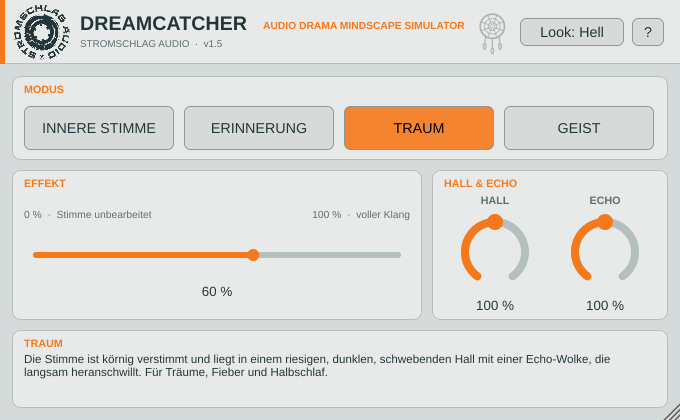
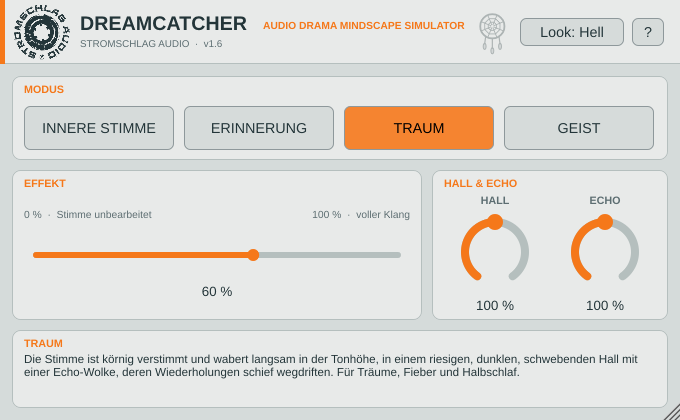
v1.6: Erinnerung und Traum zurückgenommen, Geist trocken, Flutter und GalacticVibe
- Erinnerung und Traum: Echos, Hall, Echo-Wolke, Stottern und Verstimmung etwa halbiert,
  Pegel neu abgeglichen (Stimme bleibt verständlich, 100 % ist jetzt dezenter)
- Geist: kein Vorwärts-Hall mehr hinter der Stimme, die Stimme bleibt trocken
- Erinnerung: leichtes Bandleiern (Airwindows Flutter, ca. ±9 Cent)
- Traum: langsam wabernde Tonhöhe (Airwindows GalacticVibe, ca. ±24 Cent) und
  Echos, die schief wegdriften
- Hilfe, README, Info-Seite, Credits aktualisiert

Claude-Session: https://claude.ai/code/session_01N8U6GAcgjakis5mRQaEKjq

Changed region(s): [[0.0309, 0.8357, 0.9574, 0.8976]]

diff --git a/docs/index.html b/docs/index.html
@@ -61,14 +61,14 @@
   bis zum vollen Effekt, auch über die Zeit per Automation.</p>
 
   <a class="btn" id="dl" href="https://github.com/StromschlagProductions/Dreamcatcher-vst/releases/latest">⬇ Download (Windows, VST3)</a>
-  <div class="meta" id="ver">Aktuelle Version: <span id="vnum">1.5</span> · Installation: ZIP entpacken, den ganzen Ordner <code>Dreamcatcher.vst3</code> nach <code>C:\Program Files\Common Files\VST3</code> kopieren.</div>
+  <div class="meta" id="ver">Aktuelle Version: <span id="vnum">1.6</span> · Installation: ZIP entpacken, den ganzen Ordner <code>Dreamcatcher.vst3</code> nach <code>C:\Program Files\Common Files\VST3</code> kopieren.</div>
 
   <h2>Was es kann</h2>
   <ul>
     <li><strong>Innere Stimme:</strong> nah, im Kopf, schmal, in einem winzigen, engen Raum mit einem Hauch Echo und weicheren Höhen.</li>
-    <li><strong>Erinnerung / Rückblende:</strong> die Stimme stottert, sinkt ab und klingt dünn und dumpf in einem kleinen, alten Zimmer; nach einem Pre-Delay schwappen Echos von links nach rechts heran und schwellen an (wop, wop).</li>
-    <li><strong>Traum:</strong> körnig verstimmt, in einem riesigen, dunklen, schwebenden Hall mit einer Echo-Wolke, die langsam anschwillt.</li>
-    <li><strong>Geist:</strong> echter Reverse-Hall: Vor jedem Wort schwillt ein Geisterhall an und rückwärts gespielte Stücke saugen ins Wort hinein, dann kommt die Stimme und hallt nach. Dafür meldet das Plugin in diesem Modus rund 0,6 s Latenz an die DAW, die sie ausgleicht. Am besten auf einer eigenen Spur oder Instanz.</li>
+    <li><strong>Erinnerung / Rückblende:</strong> die Stimme stottert, sinkt ab und klingt dünn und dumpf in einem kleinen, alten Zimmer, leicht wie von einer leiernden Aufnahme; nach einem Pre-Delay schwappen Echos von links nach rechts heran und schwellen an (wop, wop).</li>
+    <li><strong>Traum:</strong> körnig verstimmt, die Tonhöhe wabert langsam, in einem riesigen, dunklen, schwebenden Hall mit einer Echo-Wolke, deren Wiederholungen schief wegdriften.</li>
+    <li><strong>Geist:</strong> echter Reverse-Hall: Vor jedem Wort schwillt ein Geisterhall an und rückwärts gespielte Stücke saugen ins Wort hinein, dann kommt die Stimme, trocken und ohne Nachhall. Dafür meldet das Plugin in diesem Modus rund 0,6 s Latenz an die DAW, die sie ausgleicht. Am besten auf einer eigenen Spur oder Instanz.</li>
     <li><strong>Ein Fader von 0 bis 100 %:</strong> 0 % ist die Stimme unbearbeitet, 100 % der volle Klang des Modus. Per Automation lässt sich der Effekt einblenden oder zurückholen, etwa wenn eine alte Stimme aus einer Überblendung kommt.</li>
     <li><strong>Hall und Echo zum Nachjustieren:</strong> zwei Drehregler von 0 bis 200 %, 100 % ist der abgestimmte Klang des Modus. Im Modus Geist steuern sie Reverse-Hall und Reverse-Echo.</li>
     <li><strong>Auch auf einem Bus:</strong> Stimme und Geräusche einer Traum- oder Erinnerungsszene bekommen gemeinsam dieselbe Behandlung und klingen wie aus einer Welt.</li>
@@ -88,7 +88,7 @@
 
   <footer>
     DREAMCATCHER · Stromschlag Audio · Lars Eickstädt<br>
-    Gebaut mit <a href="https://juce.com">JUCE</a>. Klangbausteine nach Airwindows SweetWide, StereoEnsemble, GlitchShifter, PitchNasty und Galactic (Chris Johnson, MIT-Lizenz).
+    Gebaut mit <a href="https://juce.com">JUCE</a>. Klangbausteine nach Airwindows SweetWide, StereoEnsemble, GlitchShifter, PitchNasty, Flutter, GalacticVibe und Galactic (Chris Johnson, MIT-Lizenz).
   </footer>
 
 </main>

diff --git a/Source/DreamcatcherDSP.h b/Source/DreamcatcherDSP.h
@@ -47,18 +47,22 @@ struct Voicing
     // Reverse-Hall (nur Geist)
     double ghostDry;     // Anteil der (verzoegerten) Stimme, die am Ende des Schwells einsetzt
     double ghostWet;     // Anteil des anschwellenden Reverse-Halls
+    // Schwimmen (Airwindows Flutter / GalacticVibe) und verstimmte Echos
+    double flutterWet;   // Anteil Flutter (unregelmaessiges Bandleiern), 0..1
+    double vibeWet;      // Anteil GalacticVibe (langsames, zufaelliges Wabern der Tonhoehe), 0..1
+    double echoDriftMs;  // Echos wandern in der Tonhoehe: Schwankung der Echo-Zeit in ms (0 = aus)
 };
 
 // Reihenfolge wie enum Mode
 static const Voicing kVoicing[kNumModes] = {
     // innere Stimme: nah, im Kopf, leicht verbreitert, nur ein kurzes leises Echo dahinter, wenig dunkler
-    { 0.00, 0.00, 0.12, 0.25, 0.35, 0.22, 140.0, 7500.0, 1.40,   0.18,  18.0,  90.0, 0.0, 0.3, 3500.0,   0.00, 0.00 },
+    { 0.00, 0.00, 0.12, 0.25, 0.35, 0.22, 140.0, 7500.0, 1.42,   0.18,  18.0,  90.0, 0.0, 0.3, 3500.0,   0.00, 0.00,   0.00, 0.00, 0.0 },
     // Erinnerung: stark zerfallende, dumpfe Stimme, dazu Pre-Delay und Echos, die schwappend zwischen links und rechts anschwellen
-    { 0.85, 0.00, 0.20, 0.20, 0.55, 0.30, 260.0, 3800.0, 1.95,   0.55, 120.0, 240.0, 0.7, 1.0, 2600.0,   0.00, 0.00 },
+    { 0.55, 0.00, 0.20, 0.20, 0.55, 0.15, 260.0, 3800.0, 2.88,   0.28, 120.0, 240.0, 0.7, 1.0, 2600.0,   0.00, 0.00,   1.00, 0.00, 0.0 },
     // Traum: koernig verstimmt, weite Wolke, dazu langsam anschwellende Echos
-    { 0.00, 0.75, 0.20, 0.30, 0.90, 0.60, 160.0, 4200.0, 1.50,   0.40,  60.0, 330.0, 1.0, 0.8, 3000.0,   0.00, 0.00 },
+    { 0.00, 0.45, 0.20, 0.30, 0.90, 0.30, 160.0, 4200.0, 3.69,   0.20,  60.0, 330.0, 1.0, 0.8, 3000.0,   0.00, 0.00,   0.00, 0.50, 5.0 },
     // Geist: der Hall laeuft rueckwaerts und schwillt vor der Stimme an (Latenz, siehe kGhostSeconds)
-    { 0.00, 0.00, 0.10, 0.20, 0.25, 0.15, 150.0, 6000.0, 0.78,   0.00,   0.0,   0.0, 0.0, 0.0, 3000.0,   0.85, 0.95 },
+    { 0.00, 0.00, 0.10, 0.20, 0.25, 0.15, 150.0, 6000.0, 0.92,   0.00,   0.0,   0.0, 0.0, 0.0, 3000.0,   0.85, 0.95,   0.00, 0.00, 0.0 },
 };
 
 // Tap-Verlauf der Schwapp-Echos (8 Echos): abfallend bzw. anschwellend, Mischung ueber echoSwell
@@ -83,9 +87,11 @@ constexpr double kNastyFeedback = 0.25;     // Rueckkopplung 0..1
 struct Room { double level, replace, bright, detune, size; };
 static const Room kRoom[kNumModes] = {
     { 0.35, 0.88, 0.55, 0.00, 0.06 },   // Innere Stimme: winzig, eng, nur ein Hauch Raum im Kopf
-    { 1.45, 0.62, 0.28, 0.15, 0.30 },   // Erinnerung: kleines, dumpfes, altes Zimmer
-    { 1.57, 0.72, 0.32, 0.70, 1.00 },   // Traum: riesig, dunkel, schwebend
-    { 0.96, 0.65, 0.40, 0.35, 0.55 } }; // Geist: Nachhall hinter der Stimme
+    { 0.72, 0.62, 0.28, 0.15, 0.30 },   // Erinnerung: kleines, dumpfes, altes Zimmer
+    { 0.78, 0.72, 0.32, 0.70, 1.00 },   // Traum: riesig, dunkel, schwebend
+    { 0.00, 0.65, 0.40, 0.35, 0.55 } }; // Geist: kein Vorwaerts-Hall, nur Reverse (die Stimme bleibt trocken)
+constexpr double kFlutterAmount = 0.45;   // Airwindows-Flutter: Tiefe des Bandleierns
+constexpr double kVibeDrift = 0.55;       // Airwindows-GalacticVibe: Geschwindigkeit des Waberns
 constexpr double kSmoothSeconds = 0.060;    // Zeit, in der Moduswechsel ueberblendet werden
 
 // ======================================================================================================
@@ -508,6 +514,102 @@ private:
 };
 
 // ======================================================================================================
+//  Flutter (Airwindows, MIT): unregelmaessiges Bandleiern. Portiert ohne Dither, Tiefe/Geschwindigkeit skaliert mit der Abtastrate.
+// ======================================================================================================
+class Flutter
+{
+public:
+    void prepare (double sampleRate, double amount)
+    {
+        const double scale = sampleRate / 44100.0;
+        depth = amount * amount * scale * 70.0;
+        trim = (0.0024 * amount * amount) / scale;
+        reset();
+    }
+    void reset()
+    {
+        for (int c = 0; c < 2; ++c) std::fill (d[c], d[c] + 1000, 0.0);
+        gcount = 999; sweep = 3.141592653589793 * 2.0; rateof = 0.5; nextmax = 0.5;
+    }
+    void process (double& l, double& r)
+    {
+        if (gcount < 0 || gcount > 999) gcount = 999;
+        d[0][gcount] = l; d[1][gcount] = r;
+        const double offset = depth + depth * rateof * rateof * std::sin (sweep);
+        const int whole = (int) std::floor (offset);
+        const double frac = offset - whole;
+        int c0 = gcount + whole; if (c0 > 999) c0 -= 1000;
+        int c1 = gcount + whole + 1; if (c1 > 999) c1 -= 1000;
+        l = d[0][c0] * (1.0 - frac) + d[0][c1] * frac;
+        r = d[1][c0] * (1.0 - frac) + d[1][c1] * frac;
+        rateof = rateof * (1.0 - trim) + nextmax * trim;
+        sweep += rateof * trim;
+        if (sweep >= 6.283185307179586)
+        {
+            sweep -= 3.141592653589793;
+            rng ^= rng << 13; rng ^= rng >> 17; rng ^= rng << 5;
+            nextmax = 0.24 + ((double) rng / 4294967295.0) * 0.74;
+        }
+        --gcount;
+    }
+private:
+    double d[2][1000] {};
+    int gcount = 999;
+    double depth = 0.0, trim = 0.0, sweep = 6.283185307179586, rateof = 0.5, nextmax = 0.5;
+    uint32_t rng = 0x1234567u;
+};
+
+// ======================================================================================================
+//  GalacticVibe (Airwindows, MIT): langsames, zufaelliges Wabern der Tonhoehe ueber einen kurzen schwebenden Vorlauf
+// ======================================================================================================
+class GalacticVibe
+{
+public:
+    void prepare (double sampleRate, double drift)
+    {
+        scale = sampleRate / 44100.0;
+        delayM = std::max (8, (int) std::lround (256.0 * scale));
+        driftK = std::pow (drift, 3.0) * 0.001 / scale;
+        for (int c = 0; c < 2; ++c) buf[c].assign ((size_t) delayM + 2, 0.0);
+        reset();
+    }
+    void reset()
+    {
+        for (int c = 0; c < 2; ++c) std::fill (buf[c].begin(), buf[c].end(), 0.0);
+        countM = 1; vibM = 3.0; oldfpd = 0.5;
+    }
+    void process (double& l, double& r)
+    {
+        vibM += oldfpd * driftK;
+        if (vibM > 6.283185307179586)
+        {
+            vibM = 0.0;
+            rng ^= rng << 13; rng ^= rng >> 17; rng ^= rng << 5;
+            oldfpd = 0.4294967295 + (double) rng * 0.0000000000618;
+        }
+        buf[0][(size_t) countM] = l; buf[1][(size_t) countM] = r;
+        if (++countM > delayM) countM = 0;
+        const double half = 0.5 * delayM;
+        double out[2];
+        for (int c = 0; c < 2; ++c)
+        {
+            const double off = (std::sin (vibM + (c ? 1.5707963267948966 : 0.0)) + 1.0) * half;
+            const int w = countM + (int) off;
+            const double frac = off - std::floor (off);
+            const int i0 = w > delayM ? w - (delayM + 1) : w;
+            const int i1 = (w + 1) > delayM ? w + 1 - (delayM + 1) : w + 1;
+            out[c] = buf[c][(size_t) i0] * (1.0 - frac) + buf[c][(size_t) i1] * frac;
+        }
+        l = out[0]; r = out[1];
+    }
+private:
+    std::vector<double> buf[2];
+    double scale = 1.0, driftK = 0.0, vibM = 3.0, oldfpd = 0.5;
+    int delayM = 256, countM = 1;
+    uint32_t rng = 0x7654321u;
+};
+
+// ======================================================================================================
 //  Verzoegerungsring (feste Laenge, Rueckgabe = Wert von vor genau n Samples)
 // ======================================================================================================
 struct Ring
@@ -686,6 +788,7 @@ public:
         smooth = 1.0 - std::exp (-1.0 / (kSmoothSeconds * sr));
         fader = 1.0 - std::exp (-1.0 / (0.020 * sr));
         ens.prepare (sr); glitch.prepare (sr); nasty.prepare (sr);
+        flutter.prepare (sr, kFlutterAmount); vibe.prepare (sr, kVibeDrift);
         int n = 1; while ((double) n < 3.4 * sr) n <<= 1;
         echoBuf.assign ((size_t) n, 0.0); echoMask = n - 1; echoPos = 0;
         swell.prepare (sr);
@@ -703,7 +806,7 @@ public:
     }
     void reset()
     {
-        ens.reset(); glitch.reset(); nasty.reset(); swell.reset();
+        ens.reset(); glitch.reset(); nasty.reset(); swell.reset(); flutter.reset(); vibe.reset();
         for (auto& f : hp) f.clear();
         for (auto& f : lp) f.clear();
         std::fill (echoBuf.begin(), echoBuf.end(), 0.0);
@@ -735,6 +838,8 @@ public:
             cur.highpassHz += (v.highpassHz - cur.highpassHz) * smooth;
             cur.lowpassHz += (v.lowpassHz - cur.lowpassHz) * smooth;
             cur.trim += (v.trim - cur.trim) * smooth;
+            cur.flutterWet += (v.flutterWet - cur.flutterWet) * smooth;
+            cur.vibeWet += (v.vibeWet - cur.vibeWet) * smooth;
             amount += (dream - amount) * fader;
             hallK += (hall - hallK) * fader;
             echoK += (echo - echoK) * fader;
@@ -766,6 +871,18 @@ public:
             l = l * (1.0 - cur.nastyWet) + nl * cur.nastyWet;
             r = r * (1.0 - cur.nastyWet) + nr * cur.nastyWet;
 
+            // 1b. Schwimmen: Bandleiern (Erinnerung) und langsames Wabern der Tonhoehe (Traum)
+            {
+                double fl = l, fr = r;
+                flutter.process (fl, fr);
+                l = l * (1.0 - cur.flutterWet) + fl * cur.flutterWet;
+                r = r * (1.0 - cur.flutterWet) + fr * cur.flutterWet;
+                double vl = l, vr = r;
+                vibe.process (vl, vr);
+                l = l * (1.0 - cur.vibeWet) + vl * cur.vibeWet;
+                r = r * (1.0 - cur.vibeWet) + vr * cur.vibeWet;
+            }
+
             // 2. Schwapp-Echo: Pre-Delay, dann Ping-Pong-Echos (abfallend oder anschwellend)
             const double mono = 0.5 * (l + r);
             echoBuf[(size_t) (echoPos & echoMask)] = mono;
@@ -777,7 +894,19 @@ public:
                 {
                     const double g = kEchoDecay[k - 1] * (1.0 - ev.echoSwell) + kEchoSwell[k - 1] * ev.echoSwell;
                     const double other = g * (1.0 - ev.echoWidth);
-                    const double t = echoBuf[(size_t) ((echoPos - echoPre - k * echoSpace) & echoMask)];
+                    double t;
+                    if (echoDrift > 0.0)
+                    {
+                        // jede Wiederholung wandert langsam und eigenstaendig in der Tonhoehe
+                        const double dly = (double) (echoPre + k * echoSpace) + echoDrift * std::sin (echoPh[k]);
+                        echoPh[k] += echoRate[k];
+                        const double fd = std::floor (dly);
+                        const double fr = dly - fd;
+                        const int n0 = echoPos - (int) fd;
+                        t = echoBuf[(size_t) (n0 & echoMask)] * (1.0 - fr) + echoBuf[(size_t) ((n0 - 1) & echoMask)] * fr;
+                    }
+                    else
+                        t = echoBuf[(size_t) ((echoPos - echoPre - k * echoSpace) & echoMask)];
                     if (k & 1) { eL += g * t; eR += other * t; }
                     else       { eR += g * t; eL += other * t; }
                 }
@@ -872,6 +1001,8 @@ private:
         echoPre = std::max (1, (int) std::lround (ev.echoPreMs * 0.001 * sr));
         echoSpace = std::max (1, (int) std::lround (ev.echoSpaceMs * 0.001 * sr));
         echoCoef = 1.0 - std::exp (-2.0 * 3.14159265358979323846 * ev.echoLpHz / sr);
+        echoDrift = ev.echoDriftMs * 0.001 * sr;
+        for (int k = 1; k <= 8; ++k) echoRate[k] = 2.0 * 3.14159265358979323846 * (0.11 + 0.043 * k) / sr;
     }
     void snapToMode (int m)
     {
@@ -894,6 +1025,10 @@ private:
     Voicing cur = kVoicing[kInner];
     StereoEnsemble ens;
     GlitchShifter glitch;
+    Flutter flutter;
+    GalacticVibe vibe;
+    double echoPh[9] {}, echoRate[9] {};
+    double echoDrift = 0.0;
     PitchNasty nasty;
     Biquad hp[2], lp[2];
     // Echo

diff --git a/Source/PluginEditor.cpp b/Source/PluginEditor.cpp
@@ -16,11 +16,11 @@ juce::String modeDescription (int m)
             return u8 ("Die Stimme rückt ins Innere des Kopfes: schmal, nah, ein winziger, enger Raum und ein Hauch Echo, die Höhen weicher, die Tiefen weg. "
                        "Für Gedanken und die Stimme im Kopf einer Figur.");
         case dch::kMemory:
-            return u8 ("Die Stimme zerfällt: Sie stottert, sinkt ab, klingt dünn und dumpf wie in einem alten Zimmer. Nach einem Pre-Delay schwappen Echos "
+            return u8 ("Die Stimme zerfällt: Sie stottert, sinkt ab, klingt dünn und dumpf wie in einem alten Zimmer, leicht wie von einer leiernden Aufnahme. Nach einem Pre-Delay schwappen Echos "
                        "von links nach rechts heran, wop, wop. Für Rückblenden, zum Beispiel die alte Stimme, die aus einer Überblendung kommt.");
         case dch::kDream:
-            return u8 ("Die Stimme ist körnig verstimmt und liegt in einem riesigen, dunklen, schwebenden Hall mit einer Echo-Wolke, "
-                       "die langsam heranschwillt. Für Träume, Fieber und Halbschlaf.");
+            return u8 ("Die Stimme ist körnig verstimmt und wabert langsam in der Tonhöhe, in einem riesigen, dunklen, schwebenden Hall mit einer Echo-Wolke, "
+                       "deren Wiederholungen schief wegdriften. Für Träume, Fieber und Halbschlaf.");
         default:
             return u8 ("Reverse-Hall und Reverse-Echo: Vor jedem Wort schwillt ein Geisterhall an und rückwärts gespielte Stücke saugen ins Wort hinein. Das Plugin meldet dafür rund 0,6 s Latenz, die "
                        "die DAW ausgleicht. Für Geister und Erscheinungen. Am besten auf einer eigenen Spur.");
@@ -61,10 +61,10 @@ static juce::AttributedString buildHelp (juce::Colour text, juce::Colour accent,
 
     head ("MODUS");
     body ("Innere Stimme: Die Stimme rückt ins Innere des Kopfes. Schmal und nah, ein winziger, enger Raum, ein Hauch Echo, Höhen weicher, Tiefen weg.");
-    body ("Erinnerung: Die Stimme stottert, sinkt ab, klingt dünn und dumpf in einem kleinen, alten Zimmer. Nach einem Pre-Delay schwappen Ping-Pong-Echos von links nach rechts "
+    body ("Erinnerung: Die Stimme stottert, sinkt ab, klingt dünn und dumpf in einem kleinen, alten Zimmer, mit leichtem Bandleiern. Nach einem Pre-Delay schwappen Ping-Pong-Echos von links nach rechts "
           "heran und schwellen an (wop, wop). Gedacht für Rückblenden.");
-    body ("Traum: Körnig verstimmt, in einem riesigen, dunklen, leicht schwebenden Hall und einer Echo-Wolke, die langsam anschwillt.");
-    body ("Geist: Echter Reverse-Hall. Vor jedem Wort schwillt ein Geisterhall an, dann erst kommt die Stimme, danach hallt sie normal nach. Dazu kommt ein Reverse-Echo: Stücke der Stimme werden rückwärts gespielt und saugen ins Wort hinein. Dafür muss das Plugin die Stimme "
+    body ("Traum: Körnig verstimmt, die Tonhöhe wabert langsam, in einem riesigen, dunklen, schwebenden Hall und einer Echo-Wolke, deren Wiederholungen immer schiefer wegdriften.");
+    body ("Geist: Echter Reverse-Hall. Vor jedem Wort schwillt ein Geisterhall an, dann erst kommt die Stimme, trocken und ohne Nachhall. Dazu kommt ein Reverse-Echo: Stücke der Stimme werden rückwärts gespielt und saugen ins Wort hinein. Dafür muss das Plugin die Stimme "
           "um rund 0,6 Sekunden verzögern und meldet diese Latenz dem Host; die DAW gleicht sie aus, sodass der Schwell hörbar VOR der Stimme liegt.");
     body ("Der Modus lässt sich automatisieren. Beim Wechsel blendet das Plugin in etwa einer zehntel Sekunde über, es knackt nicht.");
 
@@ -85,7 +85,7 @@ static juce::AttributedString buildHelp (juce::Colour text, juce::Colour accent,
     head ("Allgemein");
     body ("Latenz: Nur im Modus Geist meldet das Plugin rund 0,6 s Latenz an den Host, in den anderen drei Modi ist es latenzfrei. Weil sich die gemeldete "
           "Latenz beim Moduswechsel ändert, nimm Geist am besten auf einer eigenen Spur oder Plugin-Instanz und automatisiere den Modus nicht quer durch die Szene. "
-          "Nach dem Ende der Stimme klingen Hall und Echos nach, im Modus Traum bis zu etwa sechs Sekunden.");
+          "Nach dem Ende der Stimme klingen Hall und Echos nach, im Modus Traum bis zu etwa fünf Sekunden; im Modus Geist bleibt die Stimme trocken, es gibt keinen Nachhall.");
     body ("Doppelklick auf den Fader setzt ihn auf 100 % zurück. Look: Dunkel / Hell, das Fenster ist am rechten unteren Rand skalierbar (50–300 %), "
           "beides wird mit dem Projekt gespeichert.");
     body ("Auch auf einem Bus: Du kannst Dreamcatcher auf einen Gruppenkanal legen, damit die Stimme und die Geräusche einer Traum- oder "
@@ -95,7 +95,7 @@ static juce::AttributedString buildHelp (juce::Colour text, juce::Colour accent,
 
     head ("Idee und Konzept");
     body ("Lars Eickstädt, Stromschlag Audio");
-    note ("Gebaut mit JUCE. Die Klangbausteine SweetWide, StereoEnsemble, GlitchShifter, PitchNasty und der Hall Galactic sind Portierungen von Airwindows-Code "
+    note ("Gebaut mit JUCE. Die Klangbausteine SweetWide, StereoEnsemble, GlitchShifter, PitchNasty, Flutter, GalacticVibe und der Hall Galactic sind Portierungen von Airwindows-Code "
           "(Chris Johnson, MIT-Lizenz).");
     return s;
 }
@@ -221,7 +221,7 @@ void DreamcatcherEditor::updateKnobLabels()
     const bool ghost = currentMode() == dch::kGhost;
     hallKnob.label.setText (ghost ? u8 ("REVERSE-HALL") : u8 ("HALL"), juce::dontSendNotification);
     echoKnob.label.setText (ghost ? u8 ("REVERSE-ECHO") : u8 ("ECHO"), juce::dontSendNotification);
-    hallKnob.slider.setTooltip (ghost ? u8 ("Reverse-Hall vor der Stimme und Nachhall: 100 % = wie abgestimmt, 0 % = aus, 200 % = doppelt. Doppelklick: 100 %")
+    hallKnob.slider.setTooltip (ghost ? u8 ("Reverse-Hall vor der Stimme: 100 % = wie abgestimmt, 0 % = aus, 200 % = doppelt. Doppelklick: 100 %")
                                       : u8 ("Hall: 100 % = wie der Modus abgestimmt ist, 0 % = kein Hall, 200 % = doppelt so viel. Doppelklick: 100 %"));
     echoKnob.slider.setTooltip (ghost ? u8 ("Reverse-Echo: rückwärts gespielte Stücke, die ins Wort hineinsaugen. 100 % = wie abgestimmt, 0 % = aus. Doppelklick: 100 %")
                                       : u8 ("Echo: 100 % = wie der Modus abgestimmt ist, 0 % = keine Echos, 200 % = doppelt so viel. Doppelklick: 100 %"));

diff --git a/README.md b/README.md
@@ -42,7 +42,7 @@ die Fenstergröße (50–300 %) werden mit dem Projekt gespeichert. Zu jedem Reg
 
 | Regler | Wirkung |
 |---|---|
-| **Modus** | **Innere Stimme:** Die Stimme rückt ins Innere des Kopfes: schmal, nah, ein winziger, enger Raum und ein Hauch Echo, Höhen weicher, Tiefen weg. **Erinnerung:** Die Stimme stottert, sinkt ab, klingt dünn und dumpf in einem kleinen, alten Zimmer; nach einem Pre-Delay schwappen Ping-Pong-Echos von links nach rechts heran und schwellen an (wop, wop), für Rückblenden. **Traum:** körnig verstimmt, in einem riesigen, dunklen, schwebenden Hall mit einer Echo-Wolke, die langsam anschwillt. **Geist:** echter Reverse-Hall, vor jedem Wort schwillt ein Geisterhall an und rückwärts gespielte Stücke saugen ins Wort hinein, dann kommt die Stimme und hallt nach (meldet rund 0,6 s Latenz). Beim Wechsel blendet das Plugin in etwa einer zehntel Sekunde über. |
+| **Modus** | **Innere Stimme:** Die Stimme rückt ins Innere des Kopfes: schmal, nah, ein winziger, enger Raum und ein Hauch Echo, Höhen weicher, Tiefen weg. **Erinnerung:** Die Stimme stottert, sinkt ab, klingt dünn und dumpf in einem kleinen, alten Zimmer, leicht wie von einer leiernden Aufnahme; nach einem Pre-Delay schwappen Ping-Pong-Echos von links nach rechts heran und schwellen an (wop, wop), für Rückblenden. **Traum:** körnig verstimmt, die Tonhöhe wabert langsam, in einem riesigen, dunklen, schwebenden Hall mit einer Echo-Wolke, deren Wiederholungen schief wegdriften. **Geist:** echter Reverse-Hall, vor jedem Wort schwillt ein Geisterhall an und rückwärts gespielte Stücke saugen ins Wort hinein, dann kommt die Stimme, trocken und ohne Nachhall (meldet rund 0,6 s Latenz). Beim Wechsel blendet das Plugin in etwa einer zehntel Sekunde über. |
 | **Effekt** | 0 % = die Stimme unbearbeitet, 100 % = der volle Klang des Modus, dazwischen fließend (Standard: 100 %). Doppelklick setzt auf 100 % zurück. |
 | **Hall** / **Echo** | Drehregler 0–200 %: 100 % = so, wie der Modus abgestimmt ist, 0 % = aus, 200 % = doppelt so viel. Im Modus Geist heißen sie **Reverse-Hall** und **Reverse-Echo**: so wählst du nur den rückwärts anschwellenden Hall, nur die rückwärts gespielten Echos oder beides. Doppelklick setzt auf 100 % zurück. |
 
@@ -66,7 +66,7 @@ Stimme und der Traum. Einen extra Ein-/Ausschalter gibt es nicht, 0 % ist aus.
 - **Latenz:** Nur im Modus **Geist** meldet das Plugin rund 0,6 s Latenz an den Host, damit der Reverse-Hall vor der Stimme
   liegen kann; die DAW gleicht das aus. Die anderen drei Modi sind latenzfrei. Weil sich die gemeldete Latenz beim
   Moduswechsel ändert, verwendest du Geist am besten auf einer eigenen Spur oder Plugin-Instanz und automatisierst den Modus
-  nicht quer durch die Szene. Hall und Echos klingen nach dem Ende der Stimme nach, im Modus Traum bis zu etwa sechs Sekunden.
+  nicht quer durch die Szene. Hall und Echos klingen nach dem Ende der Stimme nach, im Modus Traum bis zu etwa fünf Sekunden; im Modus Geist bleibt die Stimme trocken, es gibt keinen Nachhall.
   Zwischen 0 und 100 % mischen sich bearbeitete und unbearbeitete Stimme, dabei können leichte Kammfilter-Färbungen entstehen.
 - Der Eingang wird als Stereo verarbeitet; eine Mono-Spur bekommt durch die Echo-Bausteine Stereobreite.
 - Der Pegel ist fest ausgeglichen: bei 100 % ist die Stimme etwa so laut wie bei 0 % (gemessen mit einem
@@ -84,6 +84,7 @@ Stimme und der Traum. Einen extra Ein-/Ausschalter gibt es nicht, 0 % ist aus.
 Die Versionsnummer steht in der Datei `VERSION`, im Plugin-Kopf und im Namen der Release. Sie wird bei jeder
 Änderung hochgezählt.
 
+- **1.6** – Erinnerung und Traum deutlich zurückgenommen (Echos, Hall, Echo-Wolke, Stottern und Verstimmung etwa halbiert, Pegel neu abgeglichen), damit die Stimme verständlich bleibt. Geist: der Vorwärts-Hall hinter der Stimme ist wieder weg, die Stimme bleibt trocken. Erinnerung mit leichtem Bandleiern (Airwindows Flutter), Traum mit langsam wabernder Tonhöhe (Airwindows GalacticVibe) und Echos, die schief wegdriften, damit sich Traum deutlicher von Erinnerung abhebt.
 - **1.5** – Drehregler Hall und Echo (0–200 %, 100 % = Preset); im Modus Geist zusätzlich Reverse-Echo, die Regler heißen dort Reverse-Hall und Reverse-Echo. Neuer Untertitel „Audio Drama Mindscape Simulator“, mehr Luft um das Traumfänger-Symbol.
 - **1.4** – Echter Hall in allen Modi (nach Airwindows Galactic), je Modus ein eigener Raum: winzig (Innere Stimme), kleines dumpfes Zimmer (Erinnerung), riesige dunkle Halle (Traum), Nachhall hinter der Stimme (Geist). Pegel neu abgeglichen.
 - **1.3** – Modi deutlich stärker unterschieden; neues Schwapp-Echo mit Pre-Delay (Ping-Pong, abfallend oder anschwellend) in Erinnerung und Traum; vierter Modus Geist mit echtem Reverse-Hall (Latenz nur in diesem Modus).
@@ -102,6 +103,6 @@ Die Versionsnummer steht in der Datei `VERSION`, im Plugin-Kopf und im Namen der
 ## Danke
 
 Gebaut mit [JUCE](https://juce.com) 8. Die Klangbausteine **SweetWide**, **StereoEnsemble**, **GlitchShifter**,
-**PitchNasty** und der Hall **Galactic** sind Portierungen von Airwindows-Code von Chris Johnson
+**PitchNasty**, **Flutter**, **GalacticVibe** und der Hall **Galactic** sind Portierungen von Airwindows-Code von Chris Johnson
 ([github.com/airwindows](https://github.com/airwindows/airwindows), MIT-Lizenz). Angepasst wurden nur die Struktur
 (freie Abtastrate) und die Dither-Stufe, die weggelassen ist; die Algorithmen selbst sind übernommen.
